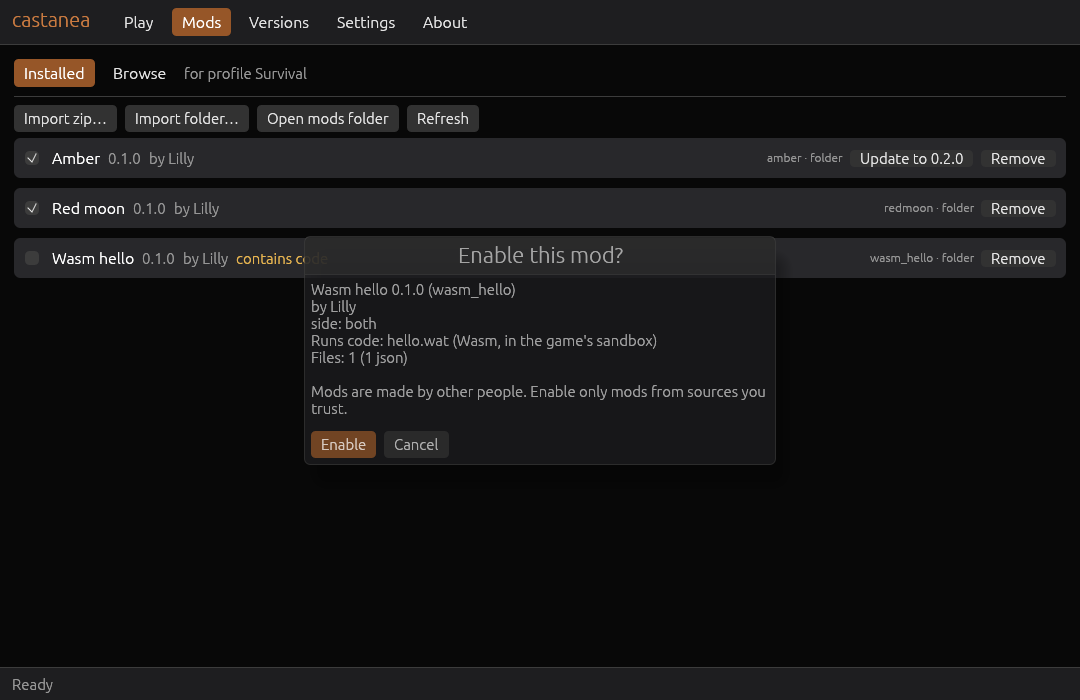
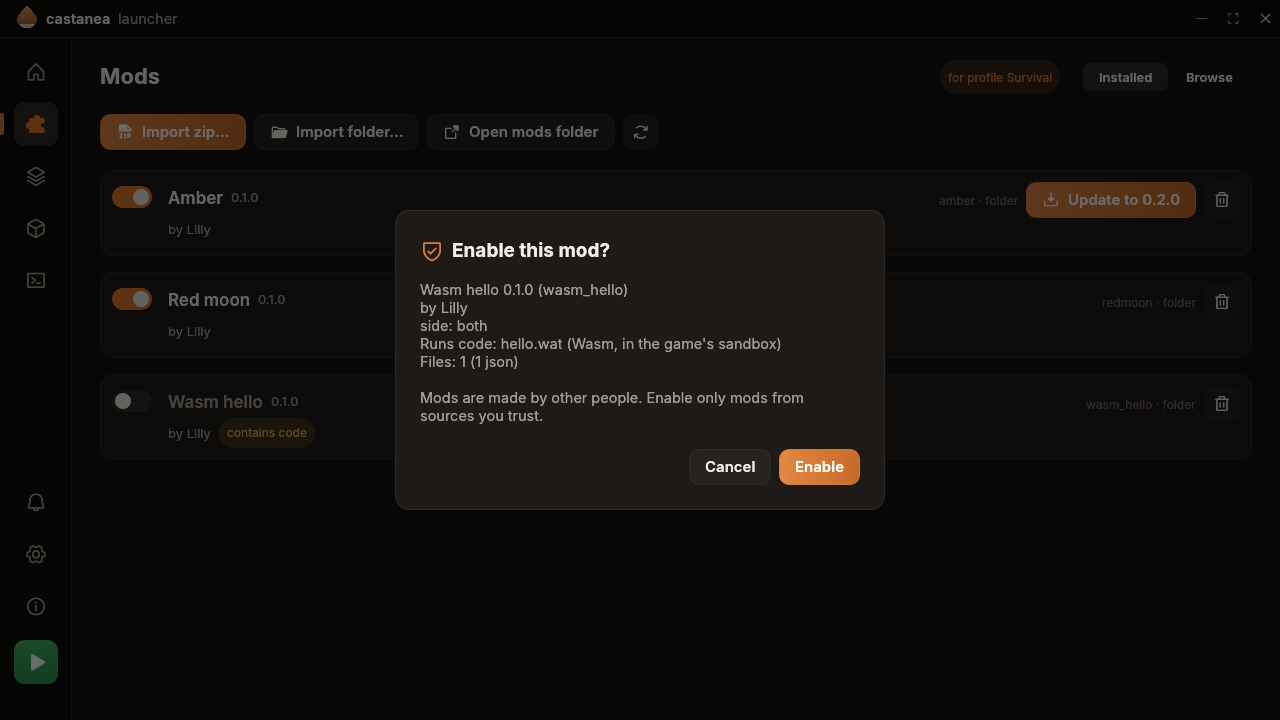
Screenshots of every page at 1280x720, home and others at 1000x640, home in German; README, UI design and Windows notes for the new look

diff --git a/README.md b/README.md
@@ -4,32 +4,41 @@ A native launcher for [castanea](https://github.com/TerraNuxt/castanea): it star
 versions side by side, and is a mod manager and mod browser. Rust with [egui](https://github.com/emilk/egui), no web
 view. Windows and Linux.
 
-![Play tab](docs/screenshots/play.png)
+![Home](docs/screenshots/home.png)
 
 | | |
 |---|---|
+| ![A game running](docs/screenshots/home-running.png) | ![Game output](docs/screenshots/log.png) |
 | ![Mods, installed](docs/screenshots/mods-installed.png) | ![Mods, browse](docs/screenshots/mods-browse.png) |
-| ![Enable a mod](docs/screenshots/mods-enable.png) | ![Game log](docs/screenshots/play-log.png) |
-| ![Profile options](docs/screenshots/profile.png) | ![German](docs/screenshots/mods-installed-de.png) |
+| ![Enable a mod](docs/screenshots/mods-enable.png) | ![Profiles](docs/screenshots/profiles.png) |
+| ![Game versions](docs/screenshots/versions.png) | ![Settings](docs/screenshots/settings.png) |
+| ![Notifications](docs/screenshots/notifications.png) | ![About](docs/screenshots/about.png) |
+| ![Home, German](docs/screenshots/home-de.png) | ![Home at 1000x640](docs/screenshots/home-1000.png) |
 
 ## What it does
 
-- **Play**: pick a profile and a game version, press Play (F5). The game's output shows live and goes to
-  `logs/latest.log` in the profile folder; a crash (exit code or a new report in `crash/`) is shown with its report.
-- **Profiles**: each has its own game folder (saves, settings, mods), and options: start in the menu, a world (seed,
-  host port) or join a server; player name; `backend_url`; graphics backend (`CASTANEA_BACKEND=vulkan|wgpu`); window
-  size; extra arguments and environment variables.
-- **Versions**: builds found on disk, folders you add (a release folder or a checkout with `target/release`), and
+- **Home**: a welcome line, a banner with the current profile, a profile picker and Play (F5); the last played
+  profiles as cards with Play and options (a running one gets a green outline, Output and Stop); news, mod updates,
+  multiplayer (join an address, open your world) and shortcuts on the right. Different profiles can run side by side.
+- **Game output**: the live output of each started profile, also in `logs/latest.log` of the profile folder; a crash
+  (exit code or a new report in `crash/`) is shown with its report.
+- **Profiles**: each has its own game folder (saves, settings, mods), and options: game version, start in the menu, a
+  world (seed, host port) or join a server; player name; `backend_url`; graphics backend
+  (`CASTANEA_BACKEND=vulkan|wgpu`); window size; extra arguments and environment variables.
+- **Game versions**: builds found on disk, folders you add (a release folder or a checkout with `target/release`), and
   releases of `TerraNuxt/castanea` (or any GitHub repo) downloaded with a SHA-256 check. A private repo needs a token.
-- **Mods → Installed**: the profile's mods from `mod.json`: enable, disable, remove, import a zip or folder, open the
-  folder; missing or disabled dependencies, duplicate ids, cycles and game-version mismatches are shown.
+- **Mods → Installed**: the profile's mods from `mod.json`: switch on and off, remove, update, import a zip or folder,
+  open the folder; missing or disabled dependencies, duplicate ids, cycles and game-version mismatches are shown.
 - **Mods → Browse**: search and filter an index ([format](docs/mod-index.md)), details, install with progress and hash
   check, updates. Works offline from the cache.
-- English and German (`crates/ui/lang/*.json`), dark theme, keyboard shortcuts (Ctrl+1…5, F5, Ctrl+F, Tab), window
-  size and position remembered.
+- **Notifications**: what happened (installs, errors, a game that ended or crashed); new ones also show as toasts.
+- English and German (`crates/ui/lang/*.json`), dark theme with a chestnut accent, keyboard shortcuts (Ctrl+1…8, F5,
+  Ctrl+F, Tab, Enter, Esc), screen reader names for every control (AccessKit), own window frame or the system's,
+  window size and position remembered, from 1000x640 up.
 
-Design and security model: [docs/design.md](docs/design.md). Packaging: [docs/packaging.md](docs/packaging.md), Nix flake: [docs/nix.md](docs/nix.md).
-Testing on Windows: [docs/windows.md](docs/windows.md).
+Design and security model: [docs/design.md](docs/design.md). The look, every page as a wireframe and the theme tokens:
+[docs/ui-design.md](docs/ui-design.md). Packaging: [docs/packaging.md](docs/packaging.md), Nix flake:
+[docs/nix.md](docs/nix.md). Testing on Windows: [docs/windows.md](docs/windows.md).
 
 ## Build
 
@@ -49,12 +58,14 @@ launcher at a game folder. `CASTANEA_GITHUB_TOKEN` gives the token for a private
 | Path | What |
 |---|---|
 | `crates/core` | Everything without UI: folders, settings, builds and sources, profiles, launch, mods, index, downloads |
-| `crates/ui` | The window (eframe): `app.rs` state and actions, `shell.rs` frame, `tabs/` one file per tab, `lang/` strings |
-| `docs/` | Design, mod index format, packaging, Windows notes, screenshots, an example index |
+| `crates/ui` | The window (eframe): `app.rs` state and actions, `shell.rs` layout, `chrome.rs` title bar and sidebar, `pages/` one file per page, `widgets/` components, `theme.rs` tokens, `lang/` strings, `assets/fonts` |
+| `docs/` | Design, UI design, mod index format, packaging, Windows notes, screenshots, an example index |
+| `third_party/` | Licences and sources of the fonts (Inter, Phosphor) |
 | `tools/remote.sh` | Runs a command on the build host (`tools/remote.sh cargo test --workspace`) |
 | `tools/winck.sh` | Windows cross-check (cargo check and clippy for a Windows target in a container) |
 | `tools/screenshots.sh` | Takes `docs/screenshots` under a private Xvfb display (`castanea-launcher --screenshots DIR`) |
 
 ## License
 
-MIT, see [LICENSE](LICENSE).
+MIT, see [LICENSE](LICENSE). The fonts in `crates/ui/assets/fonts` are Inter (SIL OFL 1.1) and Phosphor icons (MIT),
+see `third_party/`. All pictures (banner, logo mark, tiles) are drawn in code.

diff --git a/docs/ui-design.md b/docs/ui-design.md
@@ -15,7 +15,7 @@ profile tiles); icons come from the Phosphor icon font (MIT), text from Inter (O
 | M  |                         page content                                     |
 | P  |                                                                          |
 | V  |                                                                          |
-|    |                                                                          |
+| O  |                                                                          |
 | N• |                                                                          |  N = notifications, • = unread badge
 | S  |                                                                          |
 | i  |                                                                          |
@@ -23,8 +23,8 @@ profile tiles); icons come from the Phosphor icon font (MIT), text from Inter (O
 +----+--------------------------------------------------------------------------+
 ```
 
-Sidebar items (top): Home, Mods, Profiles, Versions. Bottom: Notifications, Settings, About, Play. Each item is an
-icon with a tooltip and an AccessKit label; the active one has an accent pill and the filled icon. Ctrl+1 … Ctrl+7 open
+Sidebar items (top): Home, Mods, Profiles, Game versions, Game output. Bottom: Notifications, Settings, About, Play. Each item is an
+icon with a tooltip and an AccessKit label; the active one has an accent pill and the filled icon. Ctrl+1 … Ctrl+8 open
 the pages in sidebar order, F5 plays, Ctrl+F searches mods, Esc closes a dialog or goes back.
 
 With "Use the system window frame" off (the default) the launcher draws its own title bar with minimise, maximise and
@@ -38,7 +38,7 @@ close, and resize handles on the edges; on, the system frame is used and the tit
 |  hero: sky gradient, hills, a chestnut, the profile    |  | NEWS          (org) |
 |        Survival                                        |  | title · date        |
 |        castanea 0.2.0 · world "lake"                   |  | body…               |
-|              [ (S) Survival          v ]          [✎]  |  +---------------------+
+|   [ (S) Survival     v ]          [✎]  [ ▶ Play ]     |  +---------------------+
 +-------------------------------------------------------+  | MODS          (vio) |
  (clock) Last played profiles                    3 profiles|  | 2 updates / featured|
 +-------------------------------------------------------+  | [Update all]        |
@@ -53,9 +53,10 @@ close, and resize handles on the edges; on, the system frame is used and the tit
 ```
 
 The right column is 320 wide when the content is at least 960 wide; below that it collapses into a two column grid
-under the profile list (in the same scroll area). The hero is 34 % of the height (150 to 260). A card for a running game
+under the profile list (in the same scroll area). The hero is 36 % of the column height (150 to 260). A card for a running game
 gets a green outline, Output (the log page) and a red Stop. Profiles never run twice at once (they share a folder), but
-different profiles run side by side, each with its own log.
+different profiles run side by side, each with its own log. So a running card offers Output where a "launch another"
+button would start a second copy in the same folder.
 
 ## Mods: installed
 
@@ -142,7 +143,7 @@ Two columns when the content is at least 960 wide, else one.
  [mark] castanea launcher  0.1.0
  text, link, licence line (Inter OFL, Phosphor MIT)
  +-- Keyboard ----------+  +-- Safety -------------------+
- | Ctrl+1…7  pages      |  | HTTPS only, SHA-256, …      |
+ | Ctrl+1…8  pages      |  | HTTPS only, SHA-256, …      |
  +----------------------+  +-----------------------------+
 ```
 

diff --git a/docs/windows.md b/docs/windows.md
@@ -24,15 +24,23 @@ Please try these on a Windows PC and report what fails:
 1. `cargo run --release -p castanea-launcher` opens the window with no console behind it; resize, move and close it,
    start again: size and position are kept (`%LOCALAPPDATA%\castanea-launcher\window`).
 2. Text input: type in the search field, use an IME (for example Japanese), paste with Ctrl+V.
-3. Versions → Add folder…: pick a castanea checkout with `target\release\castanea.exe` built, or a folder with
+3. Game versions → Add folder…: pick a castanea checkout with `target\release\castanea.exe` built, or a folder with
    `castanea.exe` next to `assets\`. Play: the game starts, the log shows its output, closing the game shows
    "ended normally". Check that `%LOCALAPPDATA%\castanea-launcher\data\instances\default\assets` is a junction
    (`dir /AL`) and that deleting the profile folder does not touch the build.
-4. A crash: start the game with an argument it refuses (Profile options → Extra arguments `--world`) and check that
+4. A crash: start the game with an argument it refuses (Profiles → Extra arguments `--world`) and check that
    the launcher says it crashed and shows the output.
 5. Mods → Import zip…: a zip made with `castanea-mod pack`; it lands in `mods\.disabled`, enabling moves it to `mods\`.
    Open mods folder opens Explorer.
-6. Settings → GitHub token, then Versions → Releases with a private game repo (once releases exist).
+6. Settings → GitHub token, then Game versions → Releases with a private game repo (once releases exist).
 7. The file dialogs (import, add folder, local index file) open the native Windows dialogs.
-8. Screen readers: Narrator reads the tab names and buttons (AccessKit).
+8. Screen readers: Narrator reads the sidebar items (as tabs), the icon buttons (gear, pencil, trash, window buttons) and the switches by name (AccessKit).
 9. A path with spaces and non-ASCII letters for `CASTANEA_LAUNCHER_HOME` and for the game folder.
+10. The launcher's own window frame (the default): drag the title bar to move the window, double click it to maximise,
+    use minimise, maximise and close at the top right, and resize from every edge and corner. Aero Snap (dragging to
+    a screen edge) and the window shadow may be missing with an undecorated window; Settings → Window frame →
+    "Use the system's window frame" switches to the normal Windows frame at once.
+11. HiDPI: at 125 %, 150 % and 200 % display scaling the text, icons and the banner are sharp and nothing overlaps;
+    the window cannot be made smaller than 1000x640.
+12. Two profiles running at once: Play on one card, then Play on another; both cards get the green outline, Game
+    output has one chip per profile, and Stop ends only that game.

diff --git a/third_party/inter/SOURCE.md b/third_party/inter/SOURCE.md
@@ -1,0 +1,9 @@
+# Inter
+
+- Files: `crates/ui/assets/fonts/inter-regular.ttf`, `inter-semibold.ttf`, `inter-bold.ttf`
+- From: Inter 4.1, `extras/ttf/Inter-{Regular,SemiBold,Bold}.ttf` of
+  https://github.com/rsms/inter/releases/download/v4.1/Inter-4.1.zip
+- Licence: SIL Open Font License 1.1 (`LICENSE.txt`, Copyright (c) 2016 The Inter Project Authors)
+- Changes: subset with `pyftsubset` (fonttools) to Basic Latin, Latin-1 and common punctuation (U+0020-007E,
+  U+00A0-00FF, dashes, quotes, bullet, ellipsis, arrows, euro), kerning kept, no hinting. The subset keeps the
+  font names; under the OFL a modified font may keep the name "Inter" because Inter declares no Reserved Font Name.

diff --git a/third_party/phosphor/SOURCE.md b/third_party/phosphor/SOURCE.md
@@ -1,0 +1,8 @@
+# Phosphor icons
+
+- Files: `crates/ui/assets/fonts/phosphor-regular.ttf`, `crates/ui/assets/fonts/phosphor-fill.ttf`
+- From: the Phosphor icon font (regular and fill weights) as shipped in the `egui-phosphor` 0.14.0 crate
+  (`res/Phosphor.ttf`, `res/Phosphor-Fill.ttf`), https://phosphoricons.com, https://github.com/phosphor-icons/core
+- Licence: MIT (`LICENSE`, Copyright (c) 2023 Phosphor Icons)
+- Changes: subset with `pyftsubset` (fonttools) to the code points in `crates/ui/src/icons.rs`, no layout features,
+  no hinting. To add an icon: add its code point to `icons.rs` and to the subset list, and subset again from the full font.
